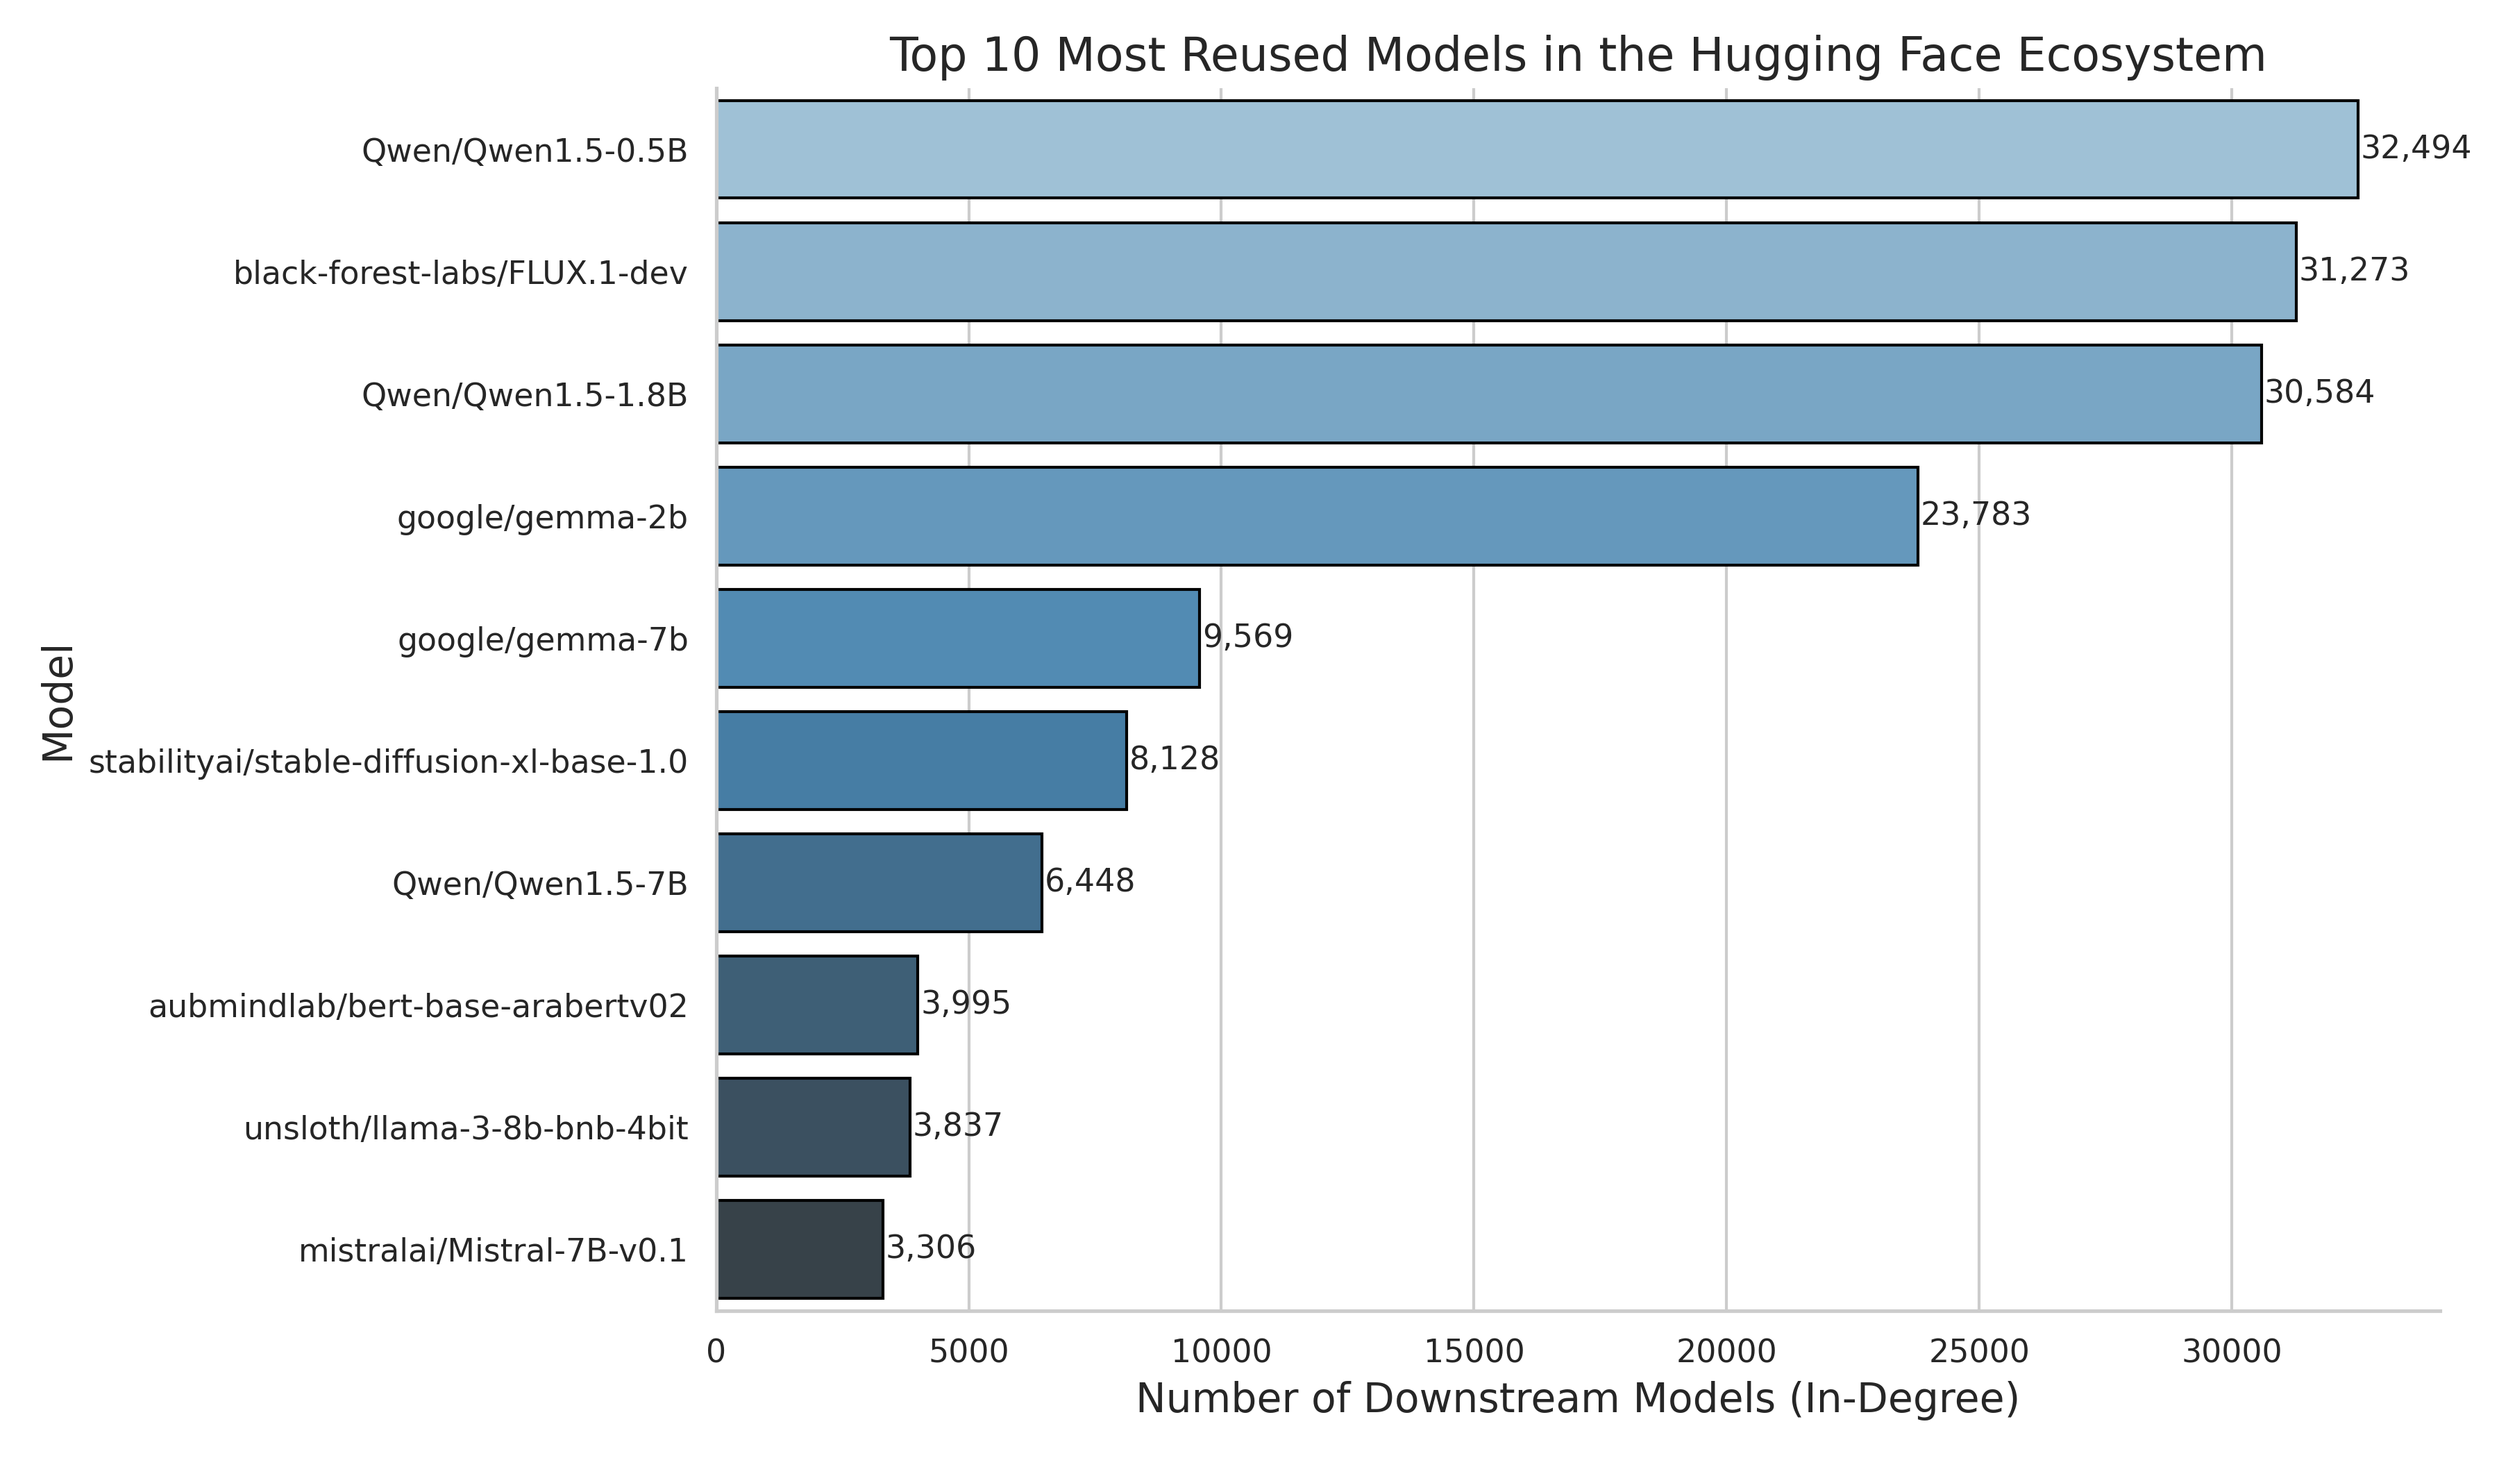
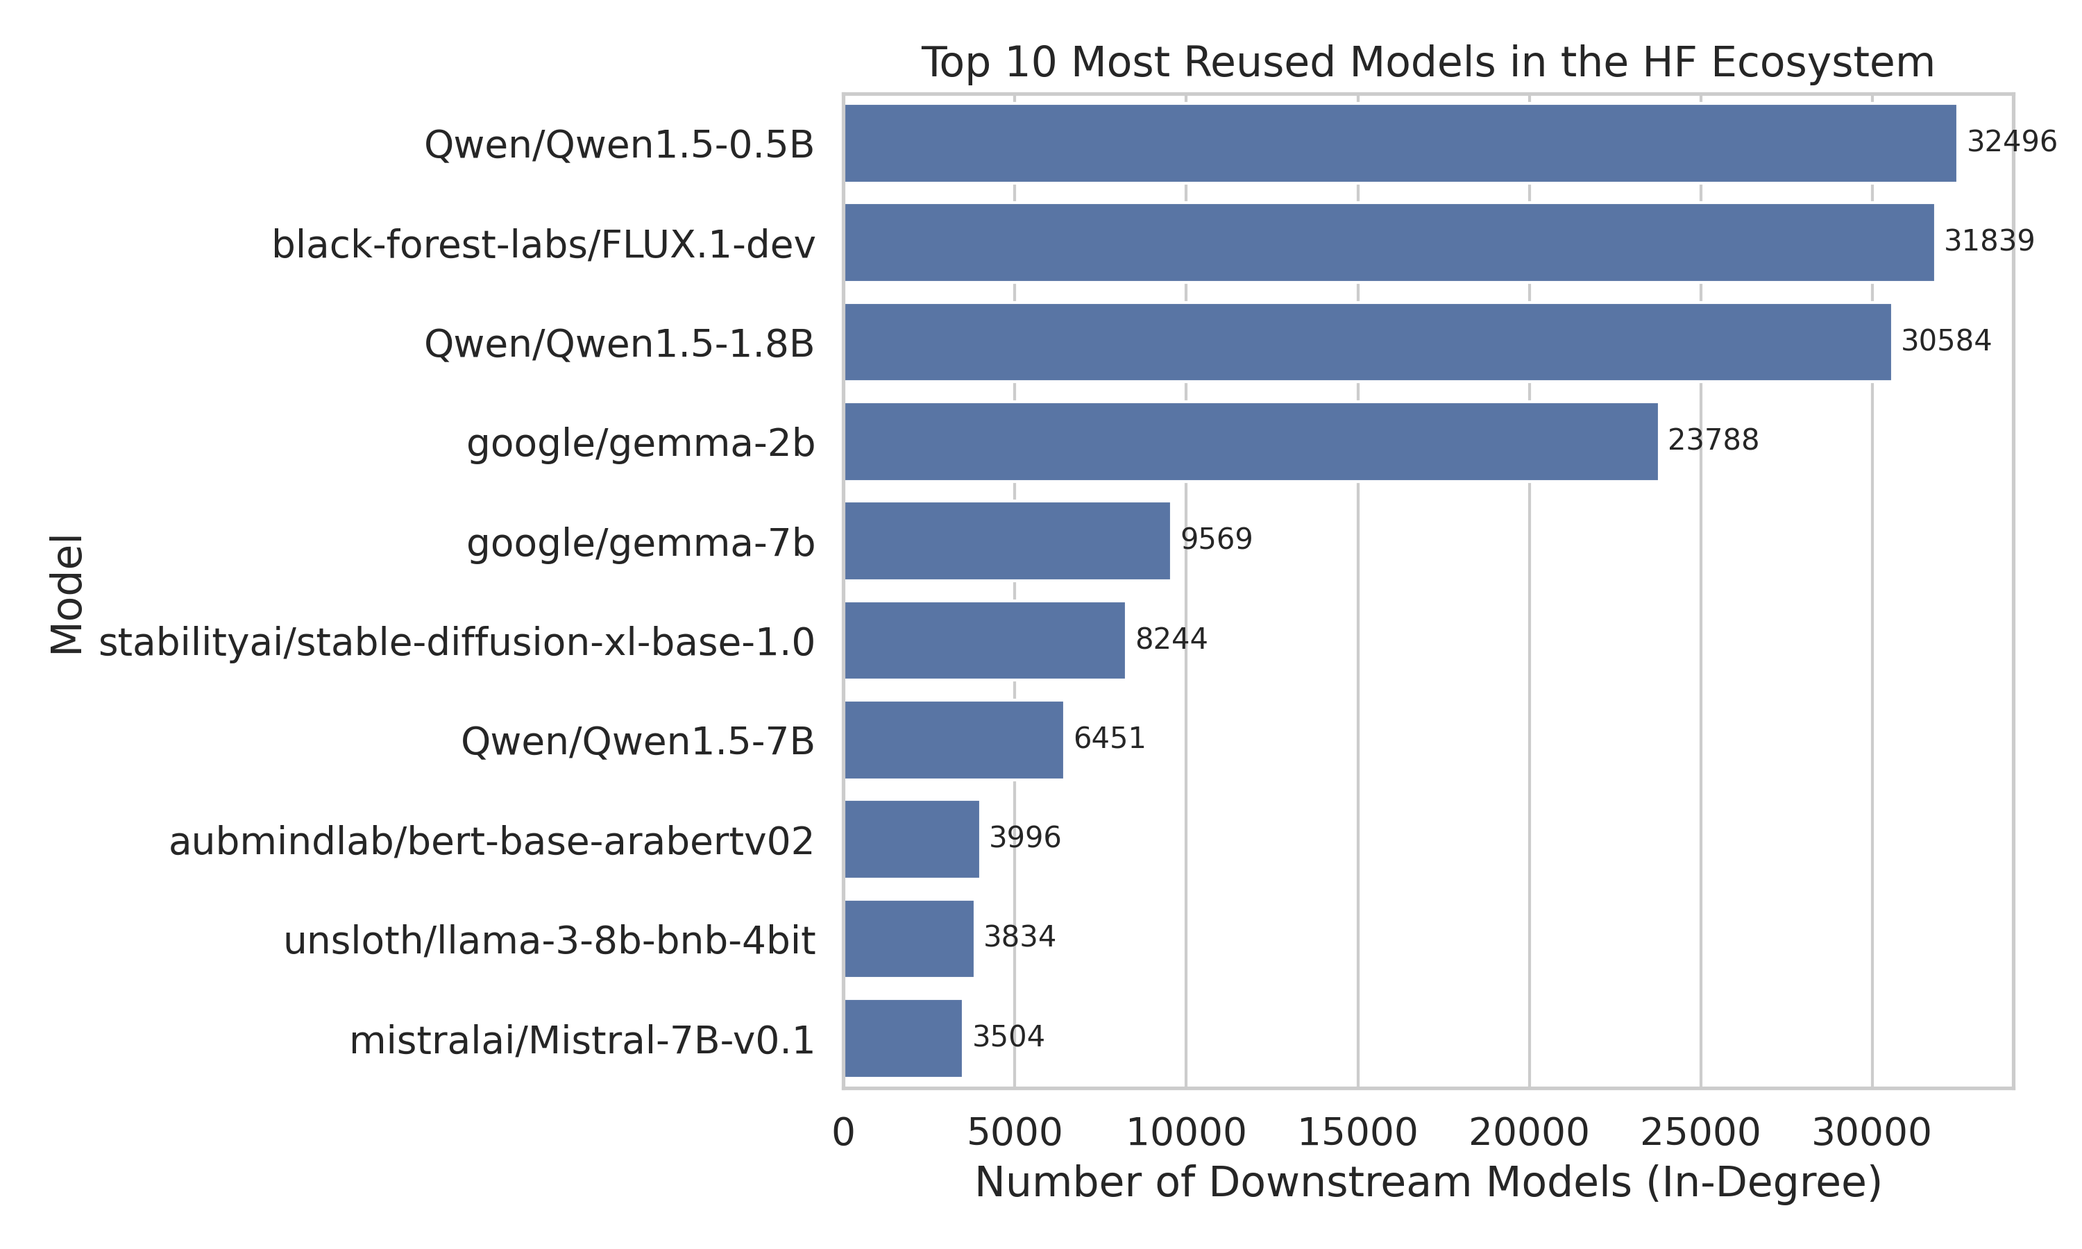
a lot of changes

Changed region(s): [[0.0, 0.0311, 0.992, 0.9956]]

diff --git a/attribute_influence/segment_by_category.py b/attribute_influence/segment_by_category.py
@@ -1,0 +1,57 @@
+import pandas as pd
+import seaborn as sns
+import matplotlib.pyplot as plt
+
+df = pd.read_csv("attribute_influence/export.csv")
+
+attributes = ["pipeline_tag", "license", "library_name", "model_type"]
+
+results = []
+for attr in attributes:
+    flag_col = f"has_{attr}"
+    
+    df[flag_col] = df[attr].notna().astype(int)
+    
+    summary = df.groupby(flag_col)["reuse_count"].agg(["count", "mean", "median"])
+    summary.index = [f"No {attr}", f"Has {attr}"]
+
+    results.append({
+        "attribute": attr,
+        "count_present": summary.loc[f"Has {attr}", "count"],
+        "mean_present": summary.loc[f"Has {attr}", "mean"],
+        "count_absent": summary.loc[f"No {attr}", "count"],
+        "mean_absent": summary.loc[f"No {attr}", "mean"],
+    })
+
+summary_df = pd.DataFrame(results)
+
+plot_df = pd.melt(
+    summary_df,
+    id_vars="attribute",
+    value_vars=["mean_present", "mean_absent"],
+    var_name="presence",
+    value_name="mean_reuse"
+)
+
+plot_df["presence"] = plot_df["presence"].map({
+    "mean_present": "Has Attribute",
+    "mean_absent": "No Attribute"
+})
+
+sns.set_theme(style="whitegrid", font_scale=1.2)
+plt.figure(figsize=(10, 6))
+ax = sns.barplot(
+    data=plot_df,
+    x="attribute", y="mean_reuse", hue="presence",
+)
+
+for container in ax.containers:
+    ax.bar_label(container, fmt="%.2f", label_type="edge", fontsize=10, padding=3)
+
+plt.xlabel("Attribute")
+plt.ylabel("Mean Reuse Count")
+plt.title("Influence of Metadata Attributes on Model Reuse")
+plt.legend(title="", loc="upper right")
+sns.despine()
+plt.tight_layout()
+plt.savefig("attribute_influence/attribute_influence.png", dpi=300)

diff --git a/in_degree/graph.py b/in_degree/graph.py
@@ -2,19 +2,9 @@ import pandas as pd
 import matplotlib.pyplot as plt
 import seaborn as sns
 
-# Set publication-style aesthetics
-sns.set_theme(style="whitegrid")
-plt.rcParams.update({
-    "font.size": 12,
-    "axes.titlesize": 16,
-    "axes.labelsize": 14,
-    "figure.figsize": (12, 7),
-    "axes.spines.top": False,
-    "axes.spines.right": False
-})
+sns.set_theme(style="whitegrid", font_scale=1.2)
 
-# Load CSV file
-df = pd.read_csv("in_degree/data.csv")
+df = pd.read_csv("in_degree/export.csv")
 
 top10 = df.sort_values(by="in_degree", ascending=False).head(10)
 
@@ -24,25 +14,20 @@ def shorten(name, max_len=40):
 top10["short_model"] = top10["model"].apply(shorten)
 
 # Bar plot
-plt.figure(figsize=(12, 7))
+plt.figure(figsize=(10, 6))
 barplot = sns.barplot(
     data=top10,
     x="in_degree",
     y="short_model",
-    palette="Blues_d",
-    edgecolor='black'
 )
 
-# Add value labels to bars
-for index, row in top10.iterrows():
-    plt.text(row.in_degree + 50, index, f"{row.in_degree:,}", va='center', fontsize=11)
+for container in barplot.containers:
+    barplot.bar_label(container, label_type="edge", fontsize=10, padding=3)
 
-# Labels and title
 plt.xlabel("Number of Downstream Models (In-Degree)")
 plt.ylabel("Model")
-plt.title("Top 10 Most Reused Models in the Hugging Face Ecosystem")
+plt.title("Top 10 Most Reused Models in the HF Ecosystem")
 
-# Tight layout and optional save
 plt.tight_layout()
 plt.savefig("in_degree/graph.png", dpi=300)
 plt.show()

diff --git a/page_rank/graph.py b/page_rank/graph.py
@@ -2,19 +2,9 @@ import pandas as pd
 import matplotlib.pyplot as plt
 import seaborn as sns
 
-# Set publication-style aesthetics
-sns.set_theme(style="whitegrid")
-plt.rcParams.update({
-    "font.size": 12,
-    "axes.titlesize": 16,
-    "axes.labelsize": 14,
-    "figure.figsize": (12, 7),
-    "axes.spines.top": False,
-    "axes.spines.right": False
-})
+sns.set_theme(style="whitegrid", font_scale=1.2)
 
-# Load CSV file
-df = pd.read_csv("page_rank/data.csv")
+df = pd.read_csv("page_rank/export.csv")
 
 top10 = df.sort_values(by="score", ascending=False).head(10)
 
@@ -23,26 +13,20 @@ def shorten(name, max_len=40):
 
 top10["short_model"] = top10["name"].apply(shorten)
 
-# Bar plot
-plt.figure(figsize=(12, 7))
+plt.figure(figsize=(10, 6))
 barplot = sns.barplot(
     data=top10,
     x="score",
-    y="short_model",
-    palette="Blues_d",
-    edgecolor='black'
+    y="short_model"
 )
 
-# Add value labels to bars
-for index, row in top10.iterrows():
-    plt.text(row.score + 50, index, f"{row.score:,}", va='center', fontsize=11)
+for container in barplot.containers:
+    barplot.bar_label(container, fmt="%.1f", label_type="edge", fontsize=10, padding=3)
 
-# Labels and title
 plt.xlabel("PageRank Score")
 plt.ylabel("Model")
 plt.title("Top 10 Most Reused Models in the Hugging Face Ecosystem")
 
-# Tight layout and optional save
 plt.tight_layout()
 plt.savefig("page_rank/graph.png", dpi=300)
 plt.show()

diff --git a/insert.py b/insert.py
@@ -25,7 +25,14 @@ with GraphDatabase.driver(URI, auth=AUTH) as driver:
         driver.session().run("""
             LOAD CSV WITH HEADERS FROM 'file:///models.csv' AS row FIELDTERMINATOR '|'
             CALL (row) {
-                MERGE (m: Model {id: row.id, likes: toInteger(row.likes), downloads: toInteger(row.downloads), created_at: row.created_at})
+                MERGE (m: Model {id: row.id})
+                SET m.likes = CASE WHEN row.likes <> '' THEN toInteger(row.likes) ELSE NULL END,
+                    m.downloads = CASE WHEN row.downloads <> '' THEN toInteger(row.downloads) ELSE NULL END,
+                    m.pipeline_tag = CASE WHEN row.pipeline_tag <> '' THEN row.pipeline_tag ELSE NULL END,
+                    m.license = CASE WHEN row.license <> '' THEN row.license ELSE NULL END,
+                    m.library_name = CASE WHEN row.library_name <> '' THEN row.library_name ELSE NULL END,
+                    m.model_type = CASE WHEN row.model_type <> '' THEN row.model_type ELSE NULL END,
+                    m.created_at = CASE WHEN row.created_at <> '' THEN row.created_at ELSE NULL END
             } IN CONCURRENT TRANSACTIONS
         """)
 

diff --git a/attribute_influence/reuse_distribution_log_log.py b/attribute_influence/reuse_distribution_log_log.py
@@ -1,0 +1,20 @@
+import pandas as pd
+import matplotlib.pyplot as plt
+import seaborn as sns
+
+df = pd.read_csv("attribute_influence/export.csv")
+
+sns.set_theme(style="whitegrid", font_scale=1.2)
+
+plt.figure(figsize=(10, 6))
+
+g = sns.histplot(data=df["reuse_count"], palette="colorblind", log_scale=True, bins=17)
+g.set_yscale("log")
+
+plt.title("Distribution of Reuse Counts")
+plt.xlabel("Reuse Count (log)")
+plt.ylabel("Frequency (log)")
+
+sns.despine()
+plt.tight_layout()
+plt.savefig("attribute_influence/reuse_distribution_log_log.png", dpi=300)

diff --git a/fetch.py b/fetch.py
@@ -1,7 +1,7 @@
 import csv
 from huggingface_hub import list_models
 
-models = list_models(cardData=True)
+models = list_models(cardData=True, fetch_config=True)
 model_data = []
 
 for i, model in enumerate(models):
@@ -21,6 +21,7 @@ for i, model in enumerate(models):
         "library_name": card_data.get("library_name"),
         "license": card_data.get("license"),
         "pipeline_tag": card_data.get("pipeline_tag"),
+        "model_type": model.config.get("model_type") if model.config else None,
     }
 
     model_data.append(model_info)

diff --git a/topological_patterns/communities_distr.py b/topological_patterns/communities_distr.py
@@ -1,0 +1,20 @@
+import pandas as pd
+import matplotlib.pyplot as plt
+import seaborn as sns
+
+df = pd.read_csv("topological_patterns/export.csv")
+
+sns.set_theme(style="whitegrid", font_scale=1.2)
+
+plt.figure(figsize=(10, 6))
+
+g = sns.histplot(data=df["size"], palette="colorblind")
+g.set_yscale("log")
+
+plt.title("Distribution of Community Sizes")
+plt.xlabel("Community Size")
+plt.ylabel("Frequency (log)")
+
+sns.despine()
+plt.tight_layout()
+plt.savefig("topological_patterns/community_size_distribution.png", dpi=300)

diff --git a/attribute_influence/reuse_distribution_log.py b/attribute_influence/reuse_distribution_log.py
@@ -1,0 +1,19 @@
+import pandas as pd
+import matplotlib.pyplot as plt
+import seaborn as sns
+
+df = pd.read_csv("attribute_influence/export.csv")
+
+sns.set_theme(style="whitegrid", font_scale=1.2)
+
+plt.figure(figsize=(10, 6))
+
+g = sns.histplot(data=df["reuse_count"], palette="colorblind", log_scale=True, bins=17)
+
+plt.title("Distribution of Reuse Counts")
+plt.xlabel("Reuse Count (log)")
+plt.ylabel("Frequency")
+
+sns.despine()
+plt.tight_layout()
+plt.savefig("attribute_influence/reuse_distribution_log.png", dpi=300)

diff --git a/topological_patterns/top100_communities.py b/topological_patterns/top100_communities.py
@@ -1,0 +1,10 @@
+import pandas as pd
+import matplotlib.pyplot as plt
+import seaborn as sns
+import numpy as np
+
+df = pd.read_csv("topological_patterns/top100_models_communities.csv")
+
+test = df.groupby("m.community")
+
+print(test.size().sort_values(ascending=False))
